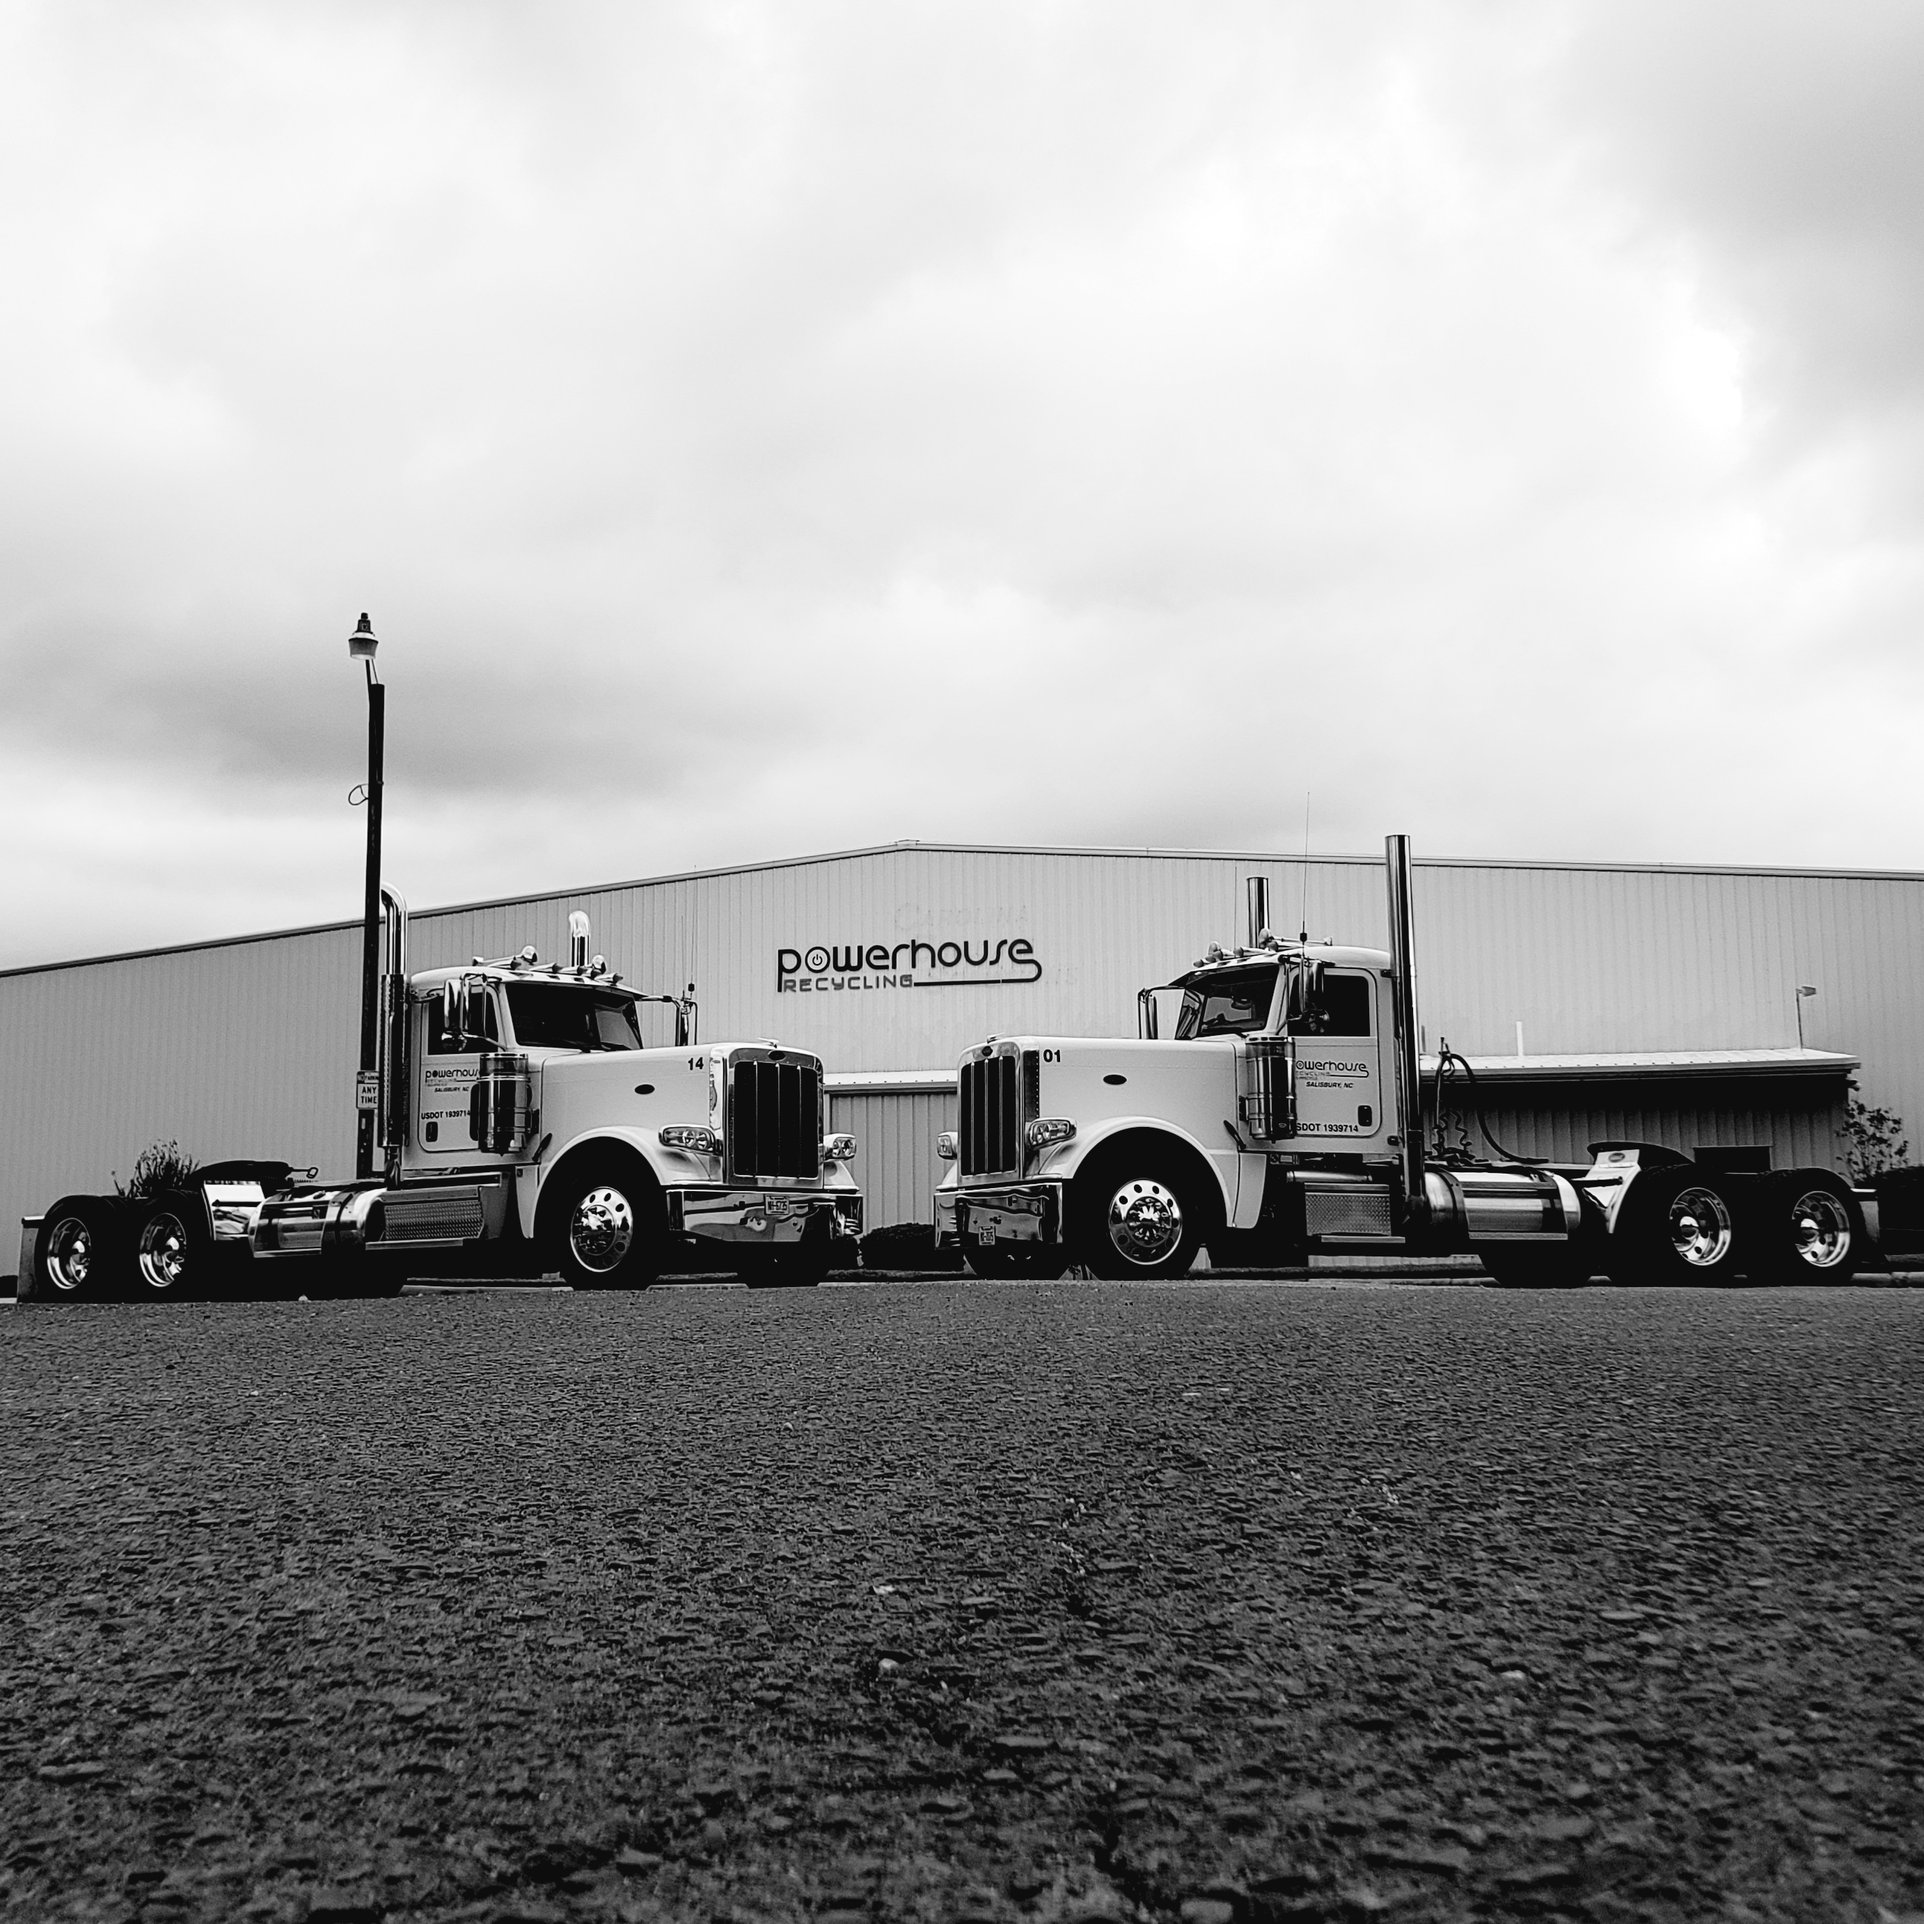
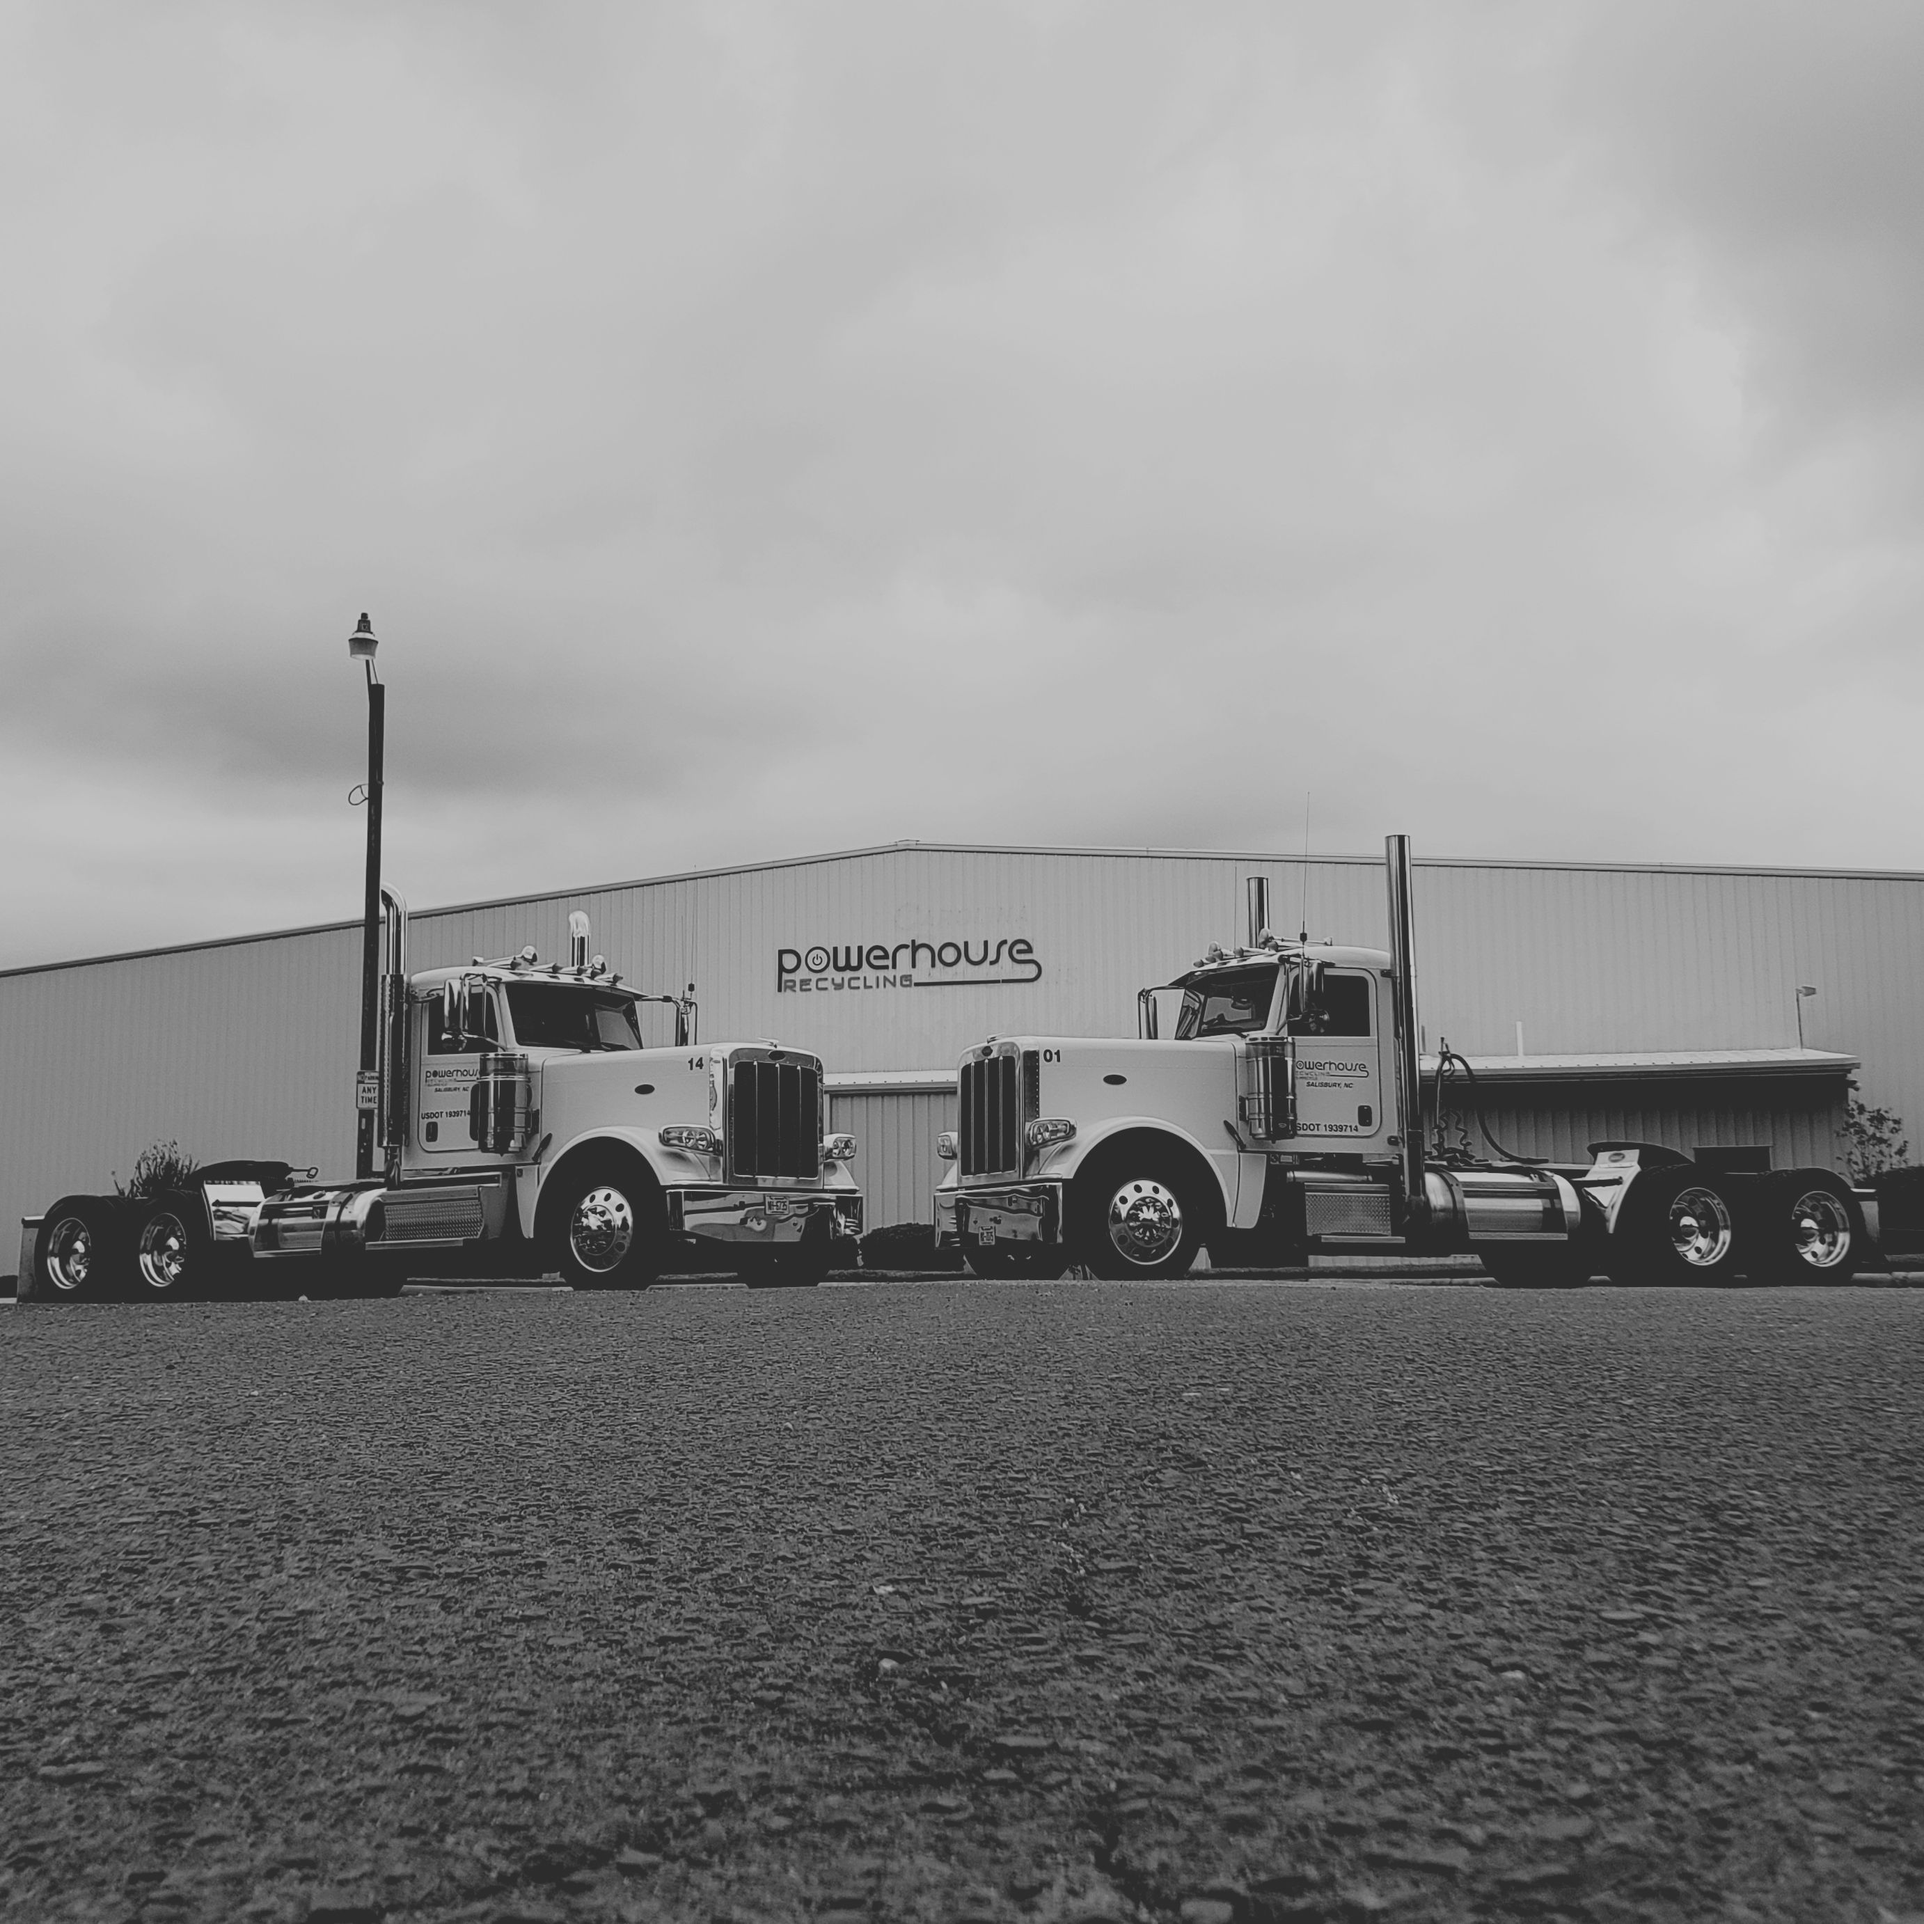
Added servers.html. moved the server view from testviews to  views. Fixed home page so that notes are styled and positioned correctly. Added server view as a link to homepage. Adjusted buttons on all the pages for readability. Adjusted semitrucks image for better visibility.

diff --git a/services/flask/website/templates/home.html b/services/flask/website/templates/home.html
@@ -1,25 +1,28 @@
 {% extends "base.html" %} {% block title %}Home{% endblock %} {% block content
     %}
     <h1 align="center">Notes</h1>
-    <div style="margin: 10% 10% 10% 10%">
-    <ul class="list-group list-group-flush" id="notes">
-      {% for note in user.notes %}
-      <li class="list-group-item">
-        {{ note.data }}
-        <button type="button" class="close" onClick="deleteNote({{ note.id }})">
-          <span aria-hidden="true">&times;</span>
-        </button>
-      </li>
-      {% endfor %}
-    </ul>
+<div class="container">
+    <div class="form-floating w-50">
+        {% for note in user.notes %}
+            <li class="list-group-item">
+                {{note.data}}
+                <button type="button"class="close"onClick="deleteNote({{ note.id }})">
+                    <span aria-hidden="true">&times;</span>
+                </button>
+            </li>
+        {%endfor%}
     </div>
-    <form method="POST">
-    <div align="center">
-      <textarea name="note" id="note" class="note"></textarea>
-      <br />
-        </div>
-      <div align="center">
-        <button type="submit" class="loginbutton">Add Note</button>
-      </div>
-    </form>
-    {% endblock %}
+<div class="container-fluid">
+    <div class="form-floating w-auto">
+        <form method="POST">
+            <div align="center">
+                <textarea name="note" id="note" class="note"></textarea>
+                <br />
+            </div>
+            <div align="center">
+                <button type="submit" class="loginbutton">Add Note</button>
+            </div>
+        </form>
+    </div>
+</div>
+{% endblock %}

diff --git a/services/flask/website/templates/servers.html b/services/flask/website/templates/servers.html
@@ -1,0 +1,36 @@
+{% extends "base.html" %}
+{% import "bootstrap/wtf.html" as wtf %}
+{% import "_macros.html" as macros %}
+{% block title %}Servers{% endblock %}
+
+{% block content %}
+<div class="table-wrapper-scroll-y my-custom-scrollbar" align="center">
+    <table class="table table-hover w-auto" style="background-color: white">
+    <thead><h2>Servers</h2></thead>
+        <tbody>
+        {% for server in results %}
+        <tr>
+
+            {% for attribute in server %}
+                <td><a href="servers/{{ attribute }}">{{ attribute }}</a></td>
+{#                <td><a href="/servers/batch">{{ attribute }}</a></td>#}
+            {% endfor %}
+
+        </tr>
+        {% endfor %}
+        </tbody>
+    </table>
+</div>
+        {% if pagination %}
+        <div>
+            <nav aria-label="Pagination Navigation" style="border-style:ridge;
+    border-color: limegreen; background-color:whitesmoke">
+                {{ macros.pagination_widget(pagination, 'searchviews.pandasSearch') }}
+            </nav>
+
+            <p class="text-center mt-3" style="background-color:whitesmoke">
+                Showing page {{ pagination.page }} of {{ pagination.pages }}
+            </p>
+        </div>
+    {% endif %}
+{% endblock %}

diff --git a/services/flask/website/static/styles.css b/services/flask/website/static/styles.css
@@ -84,15 +84,15 @@ span {
 }
 
 .loginbutton {
-  margin: 2rem;
+  margin: 0.5rem;
   margin-bottom: 1.5rem;
   padding: 0.5rem;
   cursor: pointer;
   border-radius: 1rem;
-  border: none;
+  border: solid 1px #2b4410;
   font-size: 1.1rem;
   font-weight: bolder;
-  color: #fff;
+  color: #2b4410;
   background: linear-gradient(to right, #8dee37, #5EB00CFF, #75d324, #5EB00CFF);
 }
 
@@ -203,7 +203,7 @@ body, .base-body {
     background-image: url('Semitruck.jpg');
     background-repeat: no-repeat;
     background-size: cover;
-    background-color: black;
+    background-color: rgba(164, 164, 164, 0.5);
     background-position: center center;
     margin: 0;
 }
@@ -377,10 +377,10 @@ thead th{
   padding: 0.5rem;
   cursor: pointer;
   border-radius: 1rem;
-  border: none;
+  border: solid 1px #2b4410;
   font-size: 1.1rem;
   font-weight: bolder;
-  color: #fff;
+  color: #2b4410;
   background: linear-gradient(to right, #8dee37, #5EB00CFF, #75d324, #5EB00CFF);
 }
 
@@ -436,4 +436,14 @@ body{
 }
 .shadow-none {
     box-shadow: none!important;
+}
+
+.my-custom-scrollbar {
+position: relative;
+height: 700px;
+overflow: auto;
+}
+.table-wrapper-scroll-y {
+display: block;
+}
 }

diff --git a/services/flask/website/templates/profile.html b/services/flask/website/templates/profile.html
@@ -10,7 +10,7 @@
           <div class="row gutters-sm">
             <div class="col-md-4 mb-3">
               <div class="card">
-                <div class="card-body">
+                <div class="card-body bg-white">
                   <div class="d-flex flex-column align-items-center text-center">
                     <img src="../static/default-avatar.jpg" alt="Admin" class="rounded-circle" width="150">
                     <div class="mt-3">
@@ -25,7 +25,7 @@
             </div>
             <div class="col-md-8">
               <div class="card mb-3">
-                <div class="card-body">
+                <div class="card-body bg-white">
                   <div class="row">
                     <div class="col-sm-3">
                       <h6 class="mb-0">First Name</h6>

diff --git a/services/flask/website/templates/base.html b/services/flask/website/templates/base.html
@@ -121,6 +121,7 @@
         <div class="dropdown-menu" aria-labelledby="navbarDropdownMenuLink">
             <a class="dropdown-item" href="/admin">Admin Dashboard</a>
             <a class="dropdown-item" href="/site-map">Site Map</a>
+            <a class="dropdown-item" href="/servers">Servers</a>
         </div>
       </li>
     </ul>

diff --git a/services/flask/website/testviews.py b/services/flask/website/testviews.py
@@ -1959,13 +1959,13 @@ def has_no_empty_params(rule):
 
 
 # ----------------------------------------------------------------------------------------------------------------------
-@testviews.route('/servers', methods = ['GET'])
-@login_required
-@hf.user_permissions('Admin')
-def servers():
+#@testviews.route('/servers', methods = ['GET'])
+#@login_required
+#@hf.user_permissions('Admin')
+#def servers():
 
-    hosts = []
-    most_recent_results = []
+    #hosts = []
+    #most_recent_results = []
 
     # for value in db.session.query(BATCHES.Host).distinct():
     #     print(value)
@@ -1997,21 +1997,21 @@ def servers():
     #         print(latest_value.Host, str(e))
     # print(hosts)
 
-    get_hosts = BATCHES.query.group_by(BATCHES.Host)
+  #  get_hosts = BATCHES.query.group_by(BATCHES.Host)
 
-    for result in get_hosts:
-        hosts.append(result.Host)
+   # for result in get_hosts:
+       # hosts.append(result.Host)
 
-    for host in hosts:
-        try:
-            recent = BATCHES.query.filter_by(Host=host).order_by(desc(BATCHES.Finished)).first()
-            most_recent_results.append((host, recent.Finished.strftime("%m/%d/%Y %H:%M:%S"), recent.Batch))
-        except Exception as e:
-            print(host, str(e))
+    #for host in hosts:
+       # try:
+           # recent = BATCHES.query.filter_by(Host=host).order_by(desc(BATCHES.Finished)).first()
+           # most_recent_results.append([host, recent.Finished.strftime("%m/%d/%Y %H:%M:%S"), recent.Batch])
+        #except Exception as e:
+           # print(host, str(e))
 
-    print(most_recent_results)
+    #print(most_recent_results)
 
-    return render_template('home.html', results=most_recent_results, user=current_user)
+   # return render_template('servers.html', results=most_recent_results, user=current_user)
 
 # ----------------------------------------------------------------------------------------------------------------------
 

diff --git a/services/flask/website/views.py b/services/flask/website/views.py
@@ -1,8 +1,8 @@
 from flask import Flask, Blueprint, render_template, flash, request, jsonify, session, url_for
 from flask_login import login_required, current_user
-from sqlalchemy import exc
+from sqlalchemy import exc, desc
 # from sqlalchemy import create_engine
-from .models import Note, imported_sheets, VALIDATION, MasterVerificationLog
+from .models import Note, imported_sheets, VALIDATION, MasterVerificationLog, BATCHES
 from . import db, sqlEngine, validEngine, app
 import json
 import flask_excel as excel
@@ -248,3 +248,26 @@ def validation_import():
 
 # -----------------------------------------------------------------------------------------------------
 
+@views.route('/servers', methods = ['GET'])
+@login_required
+@hf.user_permissions('Admin')
+def servers():
+
+    hosts = []
+    most_recent_results = []
+
+    get_hosts = BATCHES.query.group_by(BATCHES.Host)
+
+    for result in get_hosts:
+        hosts.append(result.Host)
+
+    for host in hosts:
+        try:
+            recent = BATCHES.query.filter_by(Host=host).order_by(desc(BATCHES.Finished)).first()
+            most_recent_results.append([host, recent.Finished.strftime("%m/%d/%Y %H:%M:%S"), recent.Batch])
+        except Exception as e:
+            print(host, str(e))
+
+    print(most_recent_results)
+
+    return render_template('servers.html', results=most_recent_results, user=current_user)
